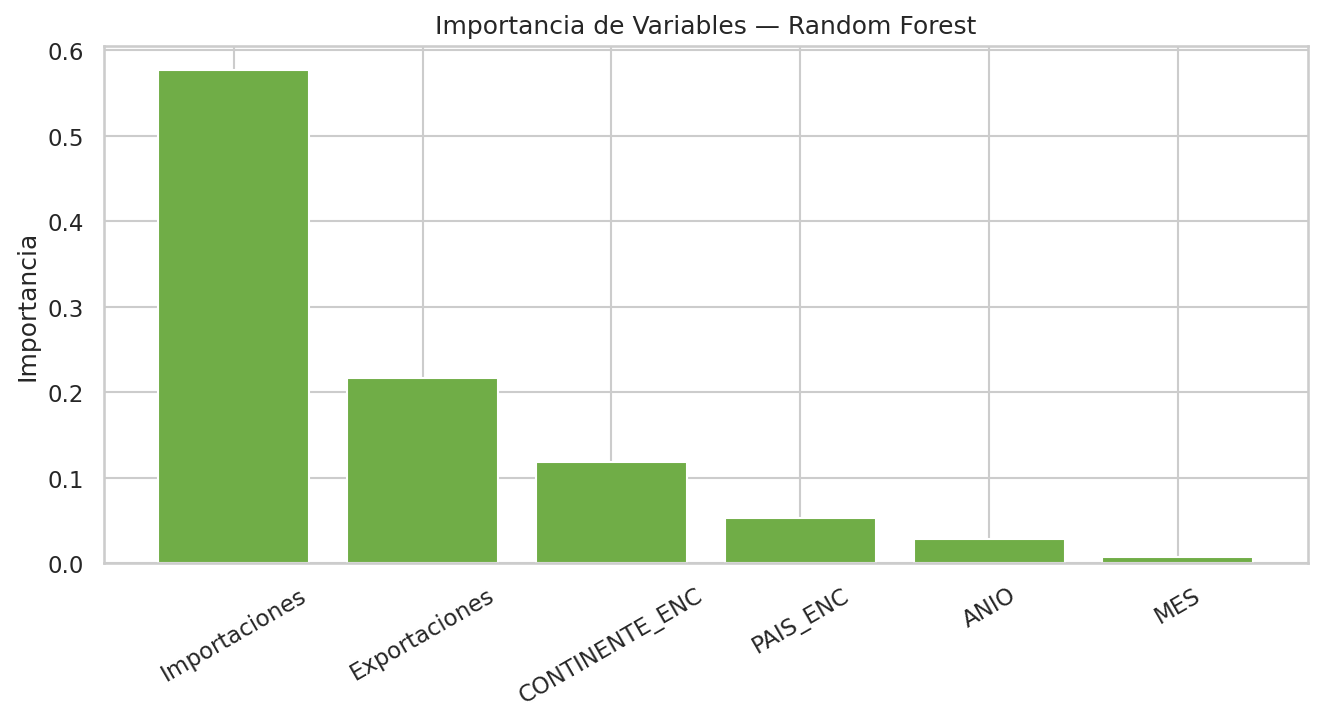
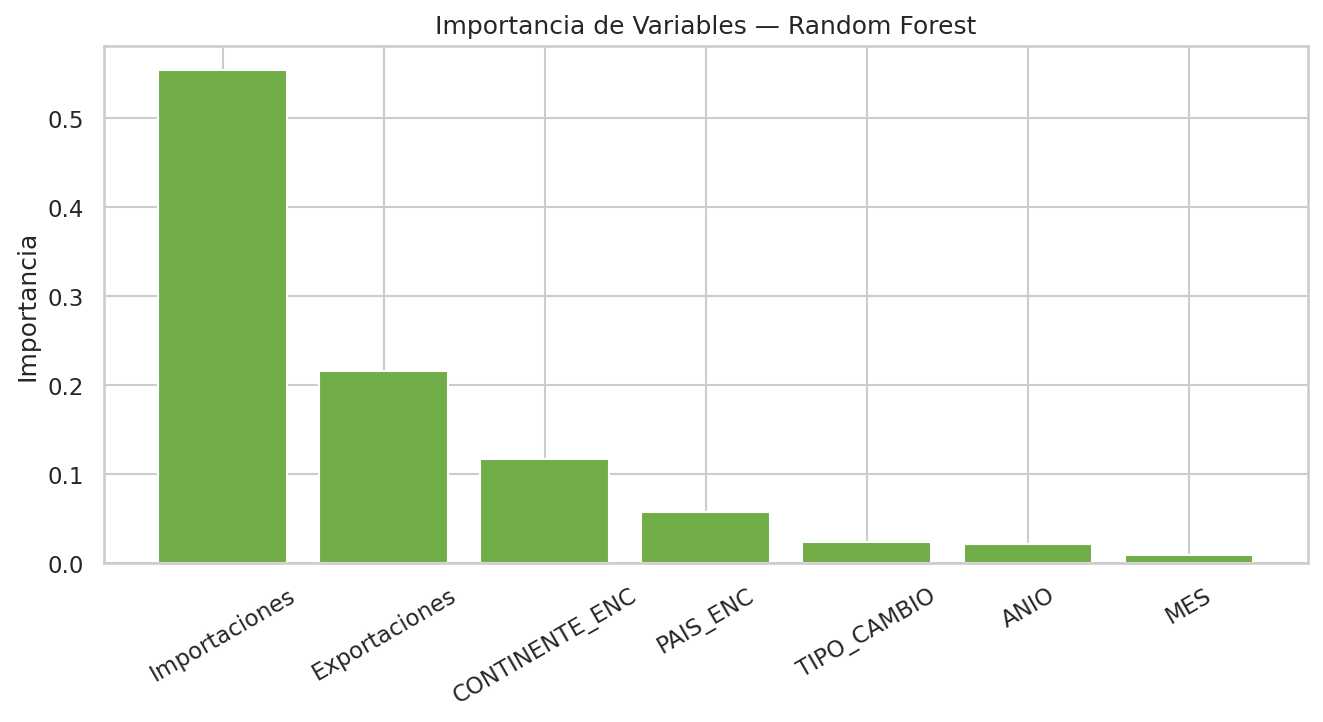
clustering K-Means y Random Forest, se agrego tipo de cambio

diff --git a/src/data_loader.py b/src/data_loader.py
@@ -20,8 +20,7 @@ RANDOM_STATE = 42
 np.random.seed(RANDOM_STATE)
 
 # ── Token de Banxico ──────────────────────────────────────────────────────────
-# IMPORTANTE: no subas este token a GitHub — agrégalo a .gitignore
-# o mejor aún usa una variable de entorno
+
[1 lines of base64/hex data omitted]
 
 
@@ -52,7 +51,7 @@ class DataLoader:
     # 1. CARGAR DATASET BASE
     # ──────────────────────────────────────────────────────────────────────────
     def cargar_datos(self) -> pd.DataFrame:
-        """Carga el dataset limpio de comercio exterior."""
+        """Se carga el dataset limpio de comercio exterior."""
         self.df = pd.read_csv(self.ruta_datos, parse_dates=['PERIODO'])
         print(f'Dataset base cargado: {self.df.shape[0]:,} filas ✓')
         return self.df
@@ -107,7 +106,7 @@ class DataLoader:
     # ──────────────────────────────────────────────────────────────────────────
     def fusionar(self) -> pd.DataFrame:
         """
-        Fusiona el dataset de comercio exterior con el tipo de cambio
+        Fusionamos el dataset de comercio exterior con el tipo de cambio
         usando PERIODO como llave de unión (left join).
         """
         print('\n── Fusionando datasets...')

diff --git a/src/model_trainer.py b/src/model_trainer.py
@@ -212,7 +212,7 @@ class ModelTrainer:
 
     def _grafica_importancia(self):
         """Importancia de variables."""
-        features = ['Exportaciones', 'Importaciones', 'CONTINENTE_ENC',
+        features = ['Exportaciones', 'Importaciones', 'TIPO_CAMBIO', 'CONTINENTE_ENC',
                     'PAIS_ENC', 'ANIO', 'MES']
         importancias = self.mejor_modelo.feature_importances_
         indices = np.argsort(importancias)[::-1]
@@ -265,7 +265,7 @@ class ModelTrainer:
 if __name__ == '__main__':
     # Preprocesar datos
     prep = Preprocessor(
-        ruta_datos='data/comercio_exterior_clean.csv',
+        ruta_datos='data/comercio_exterior_enriquecido.csv',
         ruta_modelos='models/'
     )
     X_train, X_test, y_train, y_test = prep.ejecutar()